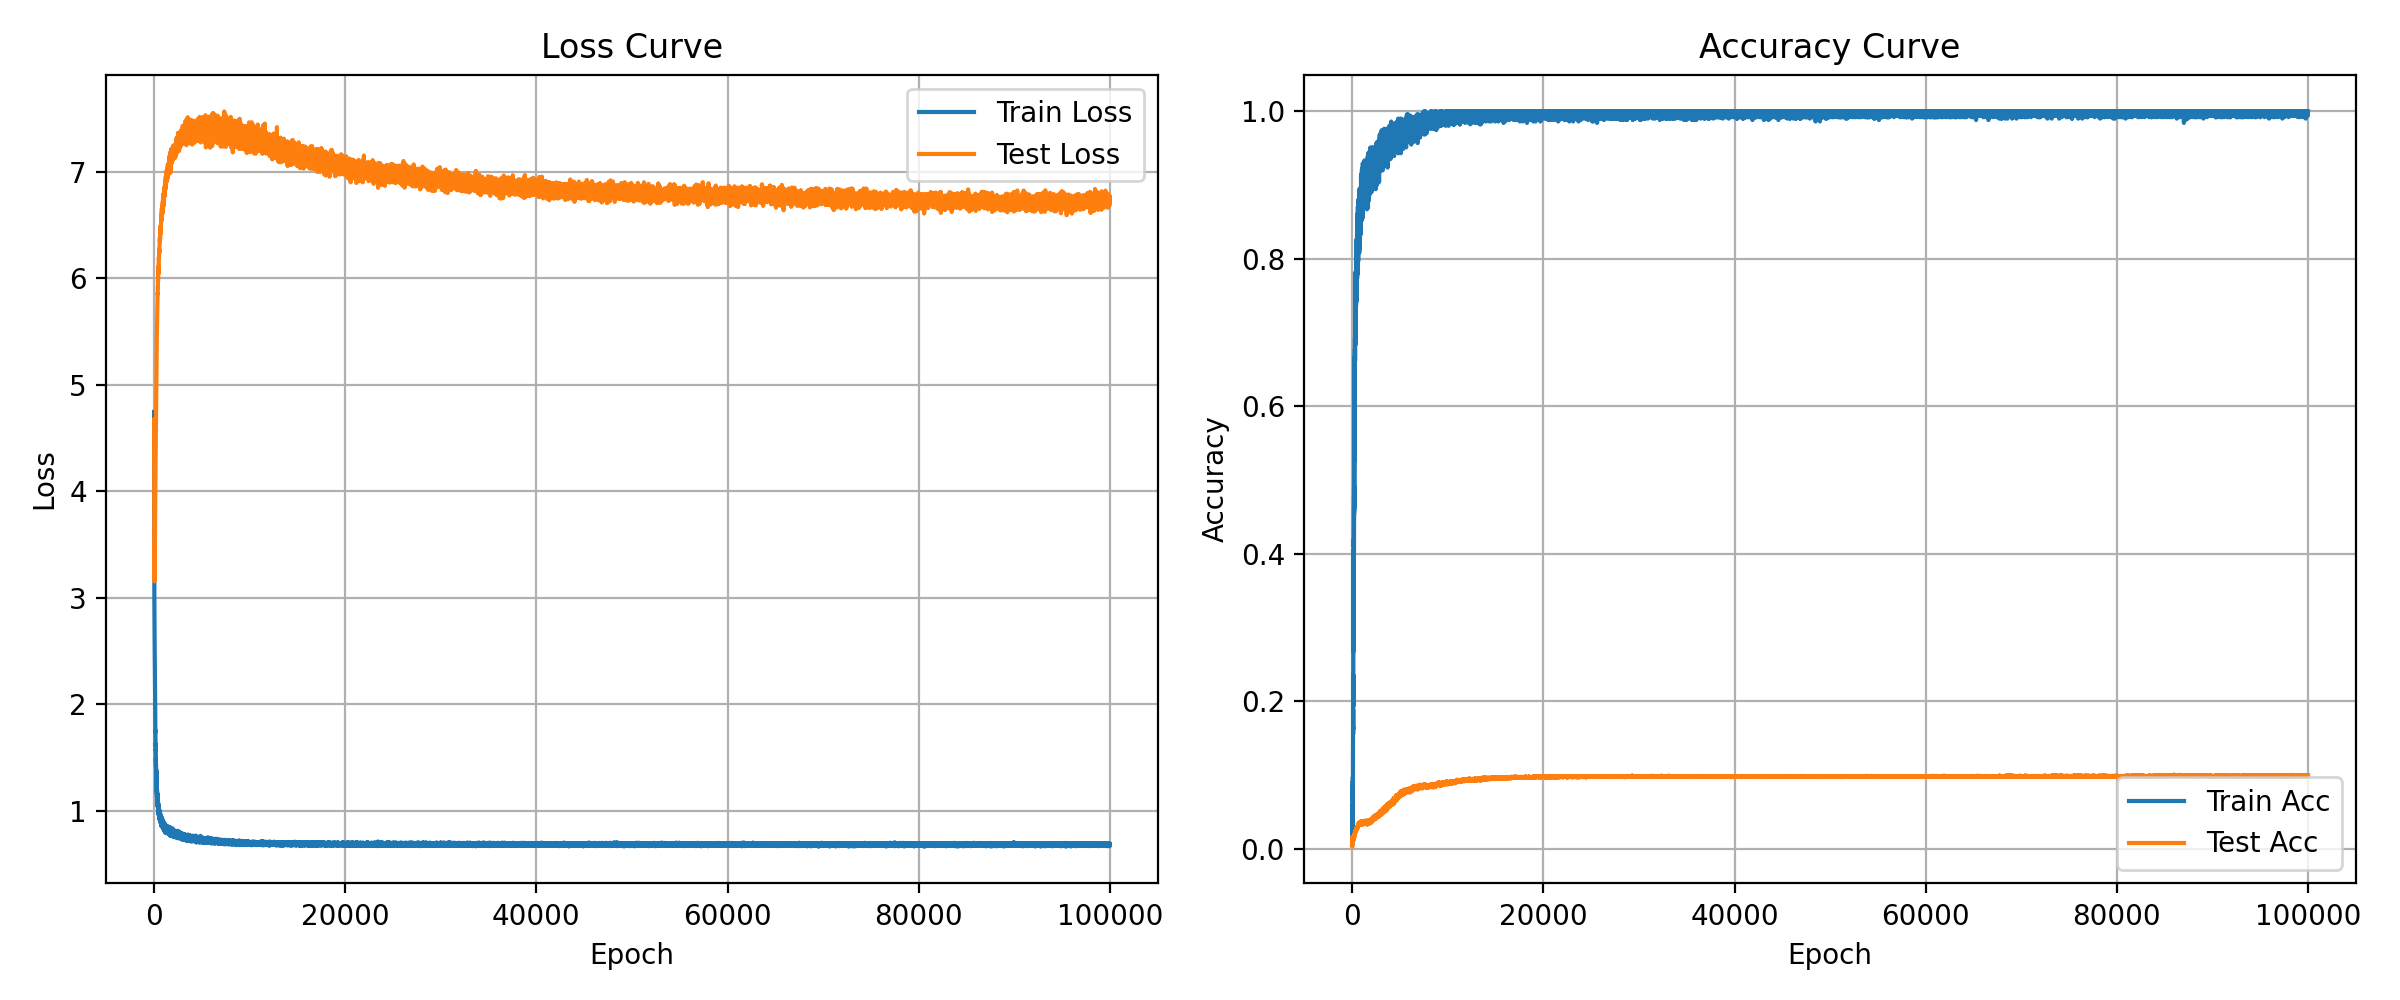
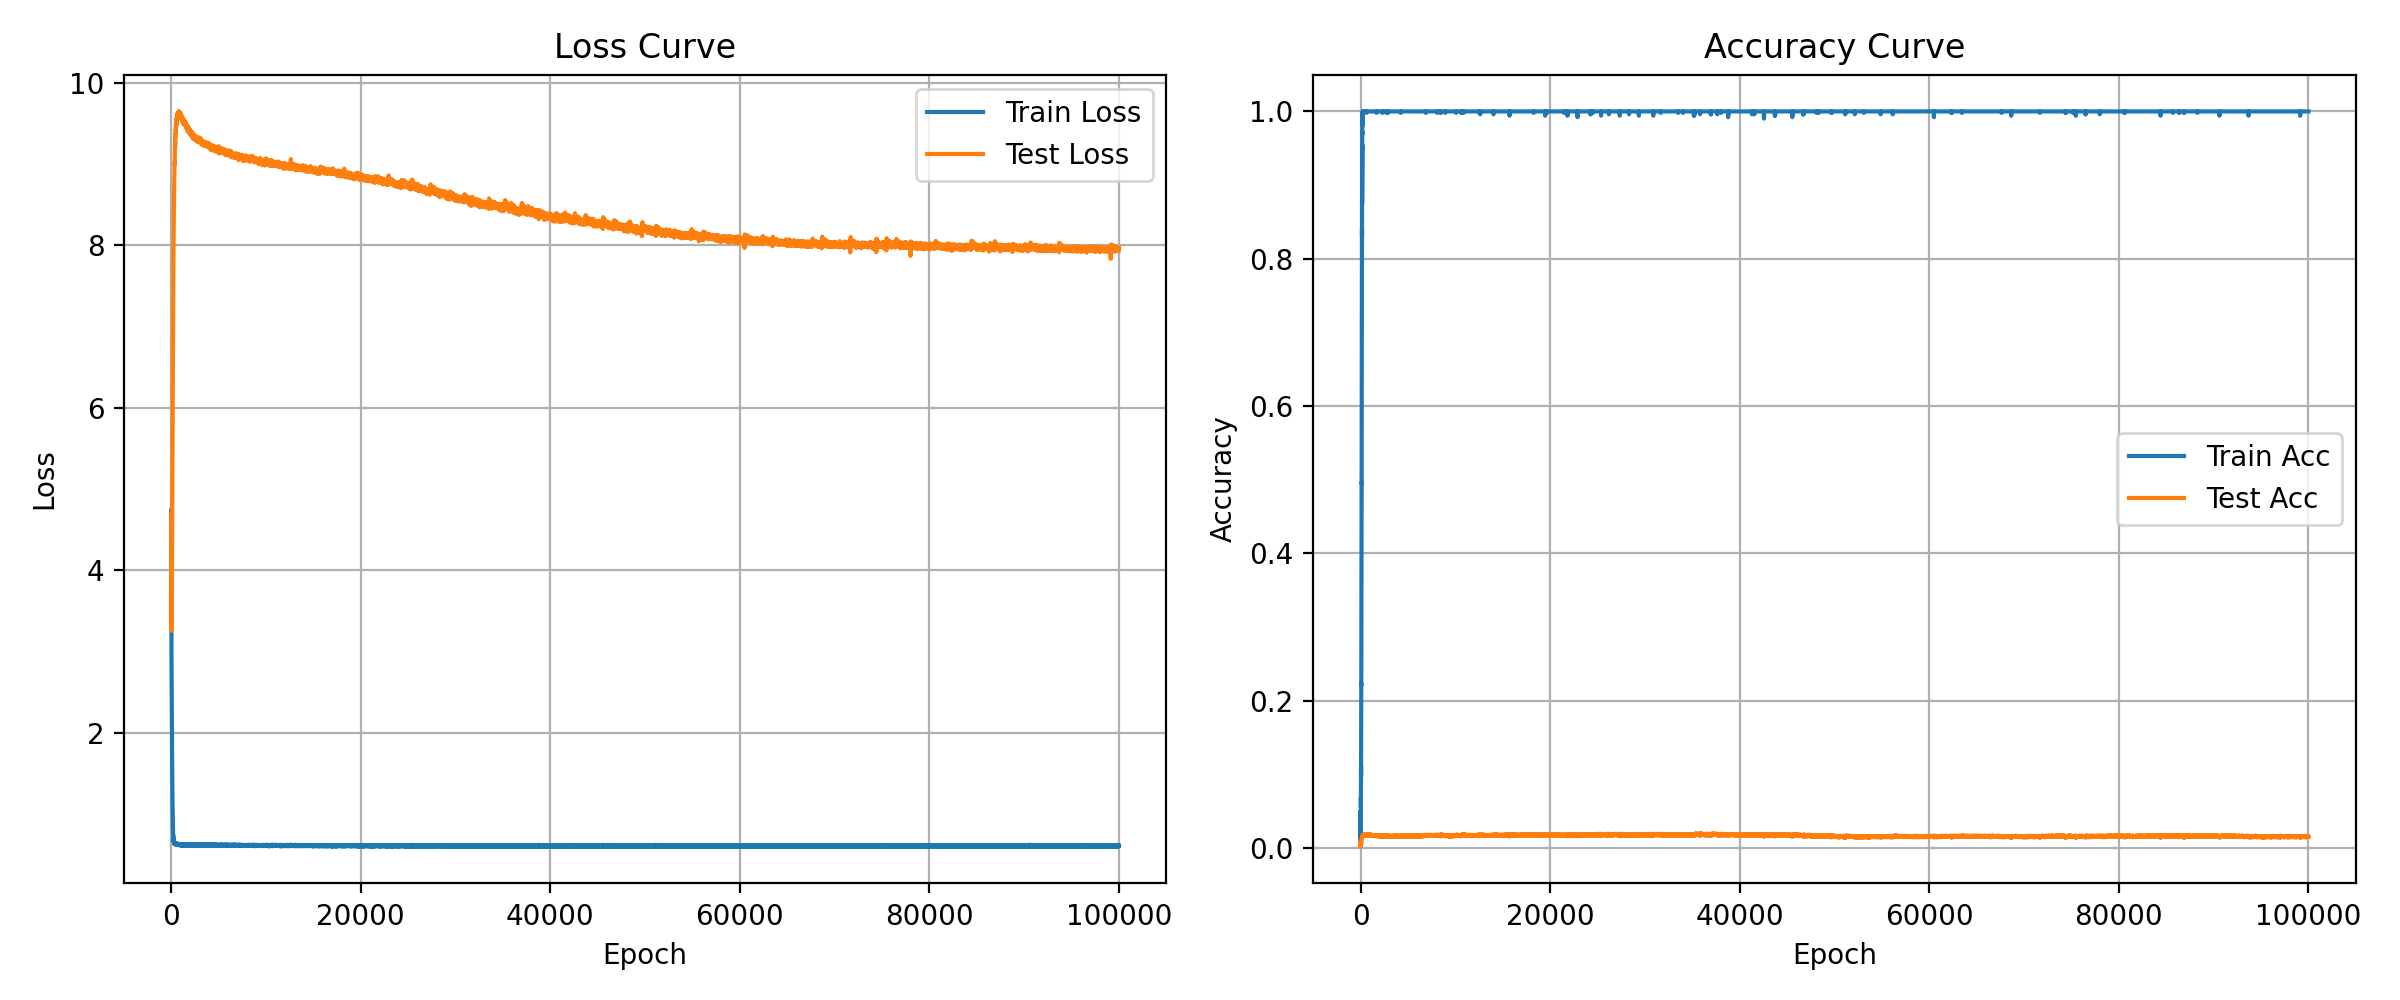
Refactor GPTDecoder and update training parameters
Refactored the Transformer decoder by introducing a separate DecoderBlock class and stacking multiple blocks in GPTDecoder. Updated main.py to use a smaller batch size, increased MLP size, set number of decoder layers, and adjusted data loader split and drop_last parameters for improved training configuration.

diff --git a/Grokking/Transformer.py b/Grokking/Transformer.py
@@ -89,20 +89,13 @@ class TransformerDecoderBlock(nn.Module):
 
         return x_residual2
 
-class GPTDecoder(nn.Module):
-    def __init__(self, vocab_size=114, seq_len=3, embedding_dim=128, num_heads=4, mlp_size=256, dropout=0.1):
+class DecoderBlock(nn.Module):
+    def __init__(self, embedding_dim: int, num_heads: int, mlp_size: int, dropout: float):
         super().__init__()
-        self.vocab_size = vocab_size
-        self.seq_len = seq_len
-
-        self.token_in = nn.Linear(vocab_size, embedding_dim, bias=False)
-
-        self.pos_emb = nn.Parameter(torch.zeros(1, seq_len, embedding_dim))
-
         self.ln1 = nn.LayerNorm(embedding_dim)
         self.attn = nn.MultiheadAttention(embedding_dim, num_heads, dropout=dropout, batch_first=True)
-        self.ln2 = nn.LayerNorm(embedding_dim)
 
+        self.ln2 = nn.LayerNorm(embedding_dim)
         self.mlp = nn.Sequential(
             nn.Linear(embedding_dim, mlp_size),
             nn.GELU(),
@@ -111,6 +104,40 @@ class GPTDecoder(nn.Module):
             nn.Dropout(dropout),
         )
 
+    def forward(self, x, causal_mask):
+        h = self.ln1(x)
+        attn_out, _ = self.attn(h, h, h, attn_mask=causal_mask, need_weights=False)
+        x = x + attn_out
+
+        h = self.ln2(x)
+        x = x + self.mlp(h)
+        return x
+
+
+class GPTDecoder(nn.Module):
+    def __init__(
+        self,
+        vocab_size=114,
+        seq_len=3,
+        embedding_dim=128,
+        num_heads=4,
+        mlp_size=256,
+        dropout=0.0,
+        num_layers=4,
+    ):
+        super().__init__()
+        self.vocab_size = vocab_size
+        self.seq_len = seq_len
+
+        self.token_in = nn.Linear(vocab_size, embedding_dim, bias=False)
+        self.pos_emb = nn.Parameter(torch.zeros(1, seq_len, embedding_dim))
+
+        self.blocks = nn.ModuleList([
+            DecoderBlock(embedding_dim, num_heads, mlp_size, dropout)
+            for _ in range(num_layers)
+        ])
+
+        self.ln_f = nn.LayerNorm(embedding_dim)
         self.head = nn.Linear(embedding_dim, vocab_size, bias=False)
 
     def forward(self, x_onehot):
@@ -120,14 +147,14 @@ class GPTDecoder(nn.Module):
 
         x = self.token_in(x_onehot) + self.pos_emb[:, :T, :]
 
-        causal = torch.triu(torch.ones(T, T, device=x.device, dtype=torch.bool), diagonal=1)
+        causal_mask = torch.triu(
+            torch.ones(T, T, device=x.device, dtype=torch.bool),
+            diagonal=1
+        )
 
-        h = self.ln1(x)
-        attn_out, _ = self.attn(h, h, h, attn_mask=causal, need_weights=False)
-        x = x + attn_out
+        for blk in self.blocks:
+            x = blk(x, causal_mask)
 
-        h = self.ln2(x)
-        x = x + self.mlp(h)
-
+        x = self.ln_f(x)
         logits = self.head(x)
         return logits

diff --git a/Grokking/main.py b/Grokking/main.py
@@ -13,7 +13,7 @@ from AdditionDataset import AdditionDataset
 def main():
     device = "cuda" if torch.cuda.is_available() else "cpu"
 
-    batch_size = 256
+    batch_size = 64
     epochs = 100_000
     lr = 3e-4
 
@@ -22,9 +22,18 @@ def main():
     train_accs = []
     test_accs = []
 
-    train_loader, test_loader, vocab_size = build_loaders(batch_size=batch_size, max_n=112)
+    train_loader, test_loader, vocab_size = build_loaders(batch_size=batch_size, max_n=112, split=0.01)
 
-    model = GPTDecoder(vocab_size=vocab_size, seq_len=3, embedding_dim=128, num_heads=4, dropout=0.0).to(device)
+    model = GPTDecoder(
+        vocab_size=vocab_size,
+        seq_len=3,
+        embedding_dim=128,
+        num_heads=4,
+        mlp_size=512,
+        dropout=0.0,
+        num_layers=4
+    ).to(device)
+
     loss_fn = nn.CrossEntropyLoss()
     optimizer = optim.AdamW(model.parameters(), lr=lr, betas=(0.9,0.95), weight_decay=1e-1)
 
@@ -69,12 +78,12 @@ def main():
     print("Saved training_curves.png")
 
 
-def build_loaders(batch_size=256, split=0.05, max_n=112):
+def build_loaders(batch_size=256, split=0.01, max_n=112):
     ds = AdditionDataset(max_n=max_n)
     n_train = int(len(ds) * split)
     n_test = len(ds) - n_train
     train_ds, test_ds = random_split(ds, [n_train, n_test])
-    train_loader = DataLoader(train_ds, batch_size=batch_size, shuffle=True, drop_last=True)
+    train_loader = DataLoader(train_ds, batch_size=batch_size, shuffle=True, drop_last=False)
     test_loader = DataLoader(test_ds, batch_size=batch_size, shuffle=False, drop_last=False)
     return train_loader, test_loader, ds.vocab_size
 
